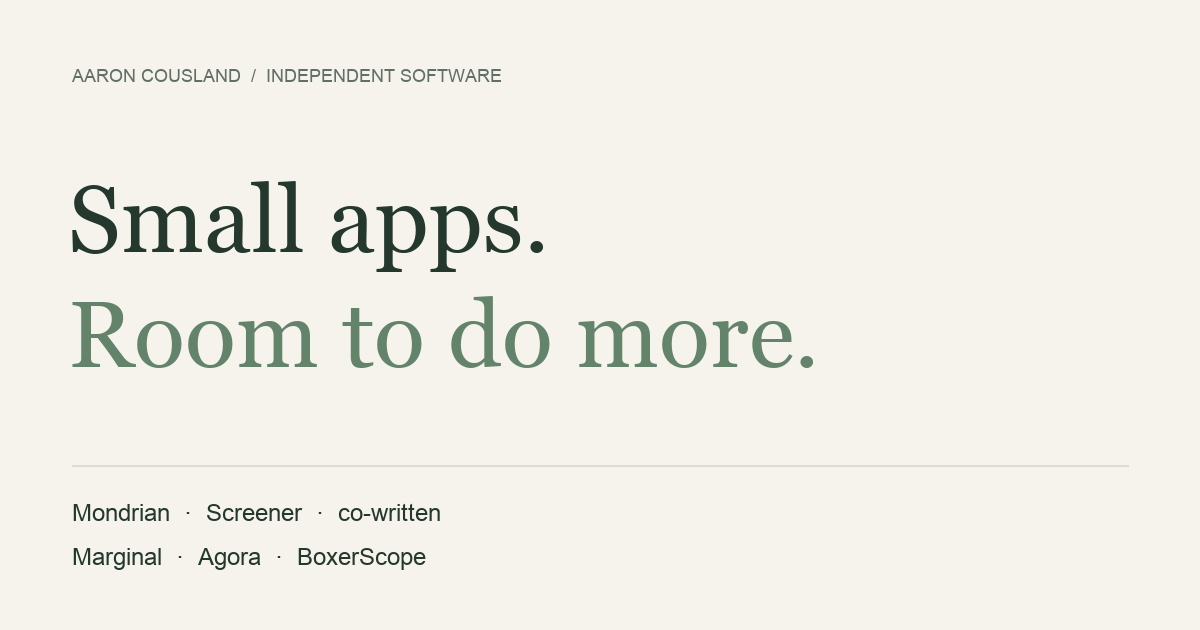
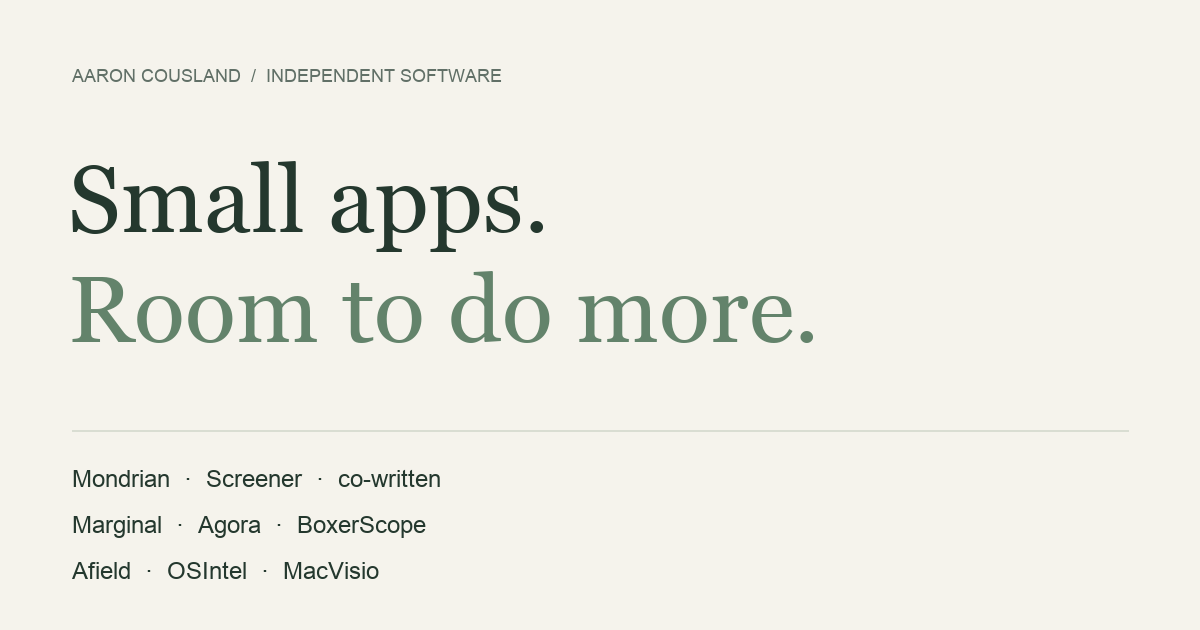
Add Afield, OSIntel, and MacVisio to the portfolio

diff --git a/index.html b/index.html
@@ -4,9 +4,9 @@
   <meta charset="utf-8">
   <meta name="viewport" content="width=device-width, initial-scale=1">
   <meta name="theme-color" content="#f5f3ec">
-  <meta name="description" content="Independent Mac apps by Aaron Cousland. Explore Mondrian, Screener, co-written, Marginal, Agora, and BoxerScope.">
+  <meta name="description" content="Independent software by Aaron Cousland. Explore Mondrian, Screener, co-written, Marginal, Agora, BoxerScope, Afield, OSIntel, and MacVisio.">
   <meta property="og:title" content="Aaron Cousland — Independent software">
-  <meta property="og:description" content="Tools for diagrams, desktops, writing, relationships, and the road ahead.">
+  <meta property="og:description" content="Tools for diagrams, research, desktops, writing, relationships, and the road ahead.">
   <meta property="og:type" content="website">
   <meta property="og:url" content="https://acousland.github.io/">
   <meta property="og:image" content="https://acousland.github.io/assets/social.png">
@@ -27,10 +27,10 @@
       <section class="intro" aria-labelledby="intro-title">
         <p class="eyebrow"><span class="dot" aria-hidden="true"></span>Independent software</p>
         <h1 id="intro-title">Small apps.<br><em>Room to do more.</em></h1>
-        <p class="intro-copy">Tools for diagrams, desktops, writing, relationships, and the road ahead. Made by Aaron Cousland.</p>
+        <p class="intro-copy">Tools for diagrams, research, desktops, writing, relationships, and the road ahead. Made by Aaron Cousland.</p>
       </section>
       <section id="apps" aria-label="Apps">
-        <div class="collection"><span>The collection</span><span>Six apps · Made for Mac</span></div>
+        <div class="collection"><span>The collection</span><span>Nine projects · Apps &amp; a game</span></div>
         <div class="grid">
           <article class="card mondrian">
             <a class="media" href="/mondrian/" aria-label="Explore Mondrian"><img class="screenshot" src="/assets/mondrian.webp" alt="Mondrian displaying a cloud platform diagram in its native Mac editor." width="1440" height="960" fetchpriority="high"></a>
@@ -76,6 +76,30 @@
             <a class="media" href="/boxerscope/" aria-label="Explore BoxerScope"><img class="brand-art" src="/assets/boxerscope-icon.webp" alt="BoxerScope app icon with a boxer engine and blue diagnostic pulse." width="512" height="512" loading="lazy"></a>
             <div class="card-body"><div class="card-heading"><h2><a href="/boxerscope/">BoxerScope</a></h2><span class="tag">Motorcycle diagnostics</span></div>
               <p class="description">Explore your BMW boxer’s fault memories, live data, and diagnostic history with UniCarScan.</p><div class="card-footer"><a class="button" href="/boxerscope/">Explore BoxerScope <span aria-hidden="true">→</span></a><a class="source" href="https://github.com/acousland/BoxerScope-releases/releases/latest">Download for Mac ↗</a></div></div>
+          </article>
+          <article class="card afield">
+            <a class="media" href="/afield/" aria-label="Explore Afield"><img class="screenshot" src="/assets/afield.webp" alt="Afield gameplay from a motorcycle cockpit, looking along a track through a misty Mongolian valley." width="1280" height="800" loading="lazy"></a>
+            <div class="card-body">
+              <div class="card-heading"><h2><a href="/afield/">Afield</a></h2><span class="tag">Playable preview</span></div>
+              <p class="description">Explore rural Mongolia by motorcycle, on foot, and around a campfire in a game about listening and returning home.</p>
+              <div class="card-footer"><a class="button" href="/afield/">Explore Afield <span aria-hidden="true">→</span></a><a class="source" href="https://github.com/acousland/afield-releases/releases/latest">Download preview ↗</a></div>
+            </div>
+          </article>
+          <article class="card osintel">
+            <a class="media" href="/osintel/" aria-label="Explore OSIntel"><img class="brand-art" src="/assets/osintel-icon.webp" alt="OSIntel app artwork: a magnifying glass over a connected evidence graph." width="512" height="512" loading="lazy"></a>
+            <div class="card-body">
+              <div class="card-heading"><h2><a href="/osintel/">OSIntel</a></h2><span class="tag">Corporate research</span></div>
+              <p class="description">Research organisations, gather public documents and technology evidence, and turn findings into source-cited briefings.</p>
+              <div class="card-footer"><a class="button" href="/osintel/">Explore OSIntel <span aria-hidden="true">→</span></a><a class="source" href="https://github.com/acousland/OSINT/releases/latest">Download for Mac ↗</a></div>
+            </div>
+          </article>
+          <article class="card macvisio">
+            <a class="media" href="/macvisio/" aria-label="Explore MacVisio"><img class="screenshot" src="/assets/macvisio.webp" alt="MacVisio’s native editor showing a sample drawing with formula-driven shape geometry." width="1600" height="762" loading="lazy"></a>
+            <div class="card-body">
+              <div class="card-heading"><h2><a href="/macvisio/">MacVisio</a></h2><span class="tag">In development</span></div>
+              <p class="description">A native Mac diagram editor for Visio files, with shapes, connectors, pages, and stencils. Currently a working prototype.</p>
+              <div class="card-footer"><a class="button" href="/macvisio/">Explore MacVisio <span aria-hidden="true">→</span></a><span class="development"><span class="dot" aria-hidden="true"></span>In development</span></div>
+            </div>
           </article>
         </div>
       </section>

diff --git a/afield/index.html b/afield/index.html
@@ -1,0 +1,35 @@
+<!doctype html>
+<html lang="en">
+<head>
+  <meta charset="utf-8">
+  <meta name="viewport" content="width=device-width, initial-scale=1">
+  <meta name="theme-color" content="#f5f3ec">
+  <meta name="description" content="Explore rural Mongolia by motorcycle, on foot, and around a campfire in a game about listening and returning home.">
+  <meta property="og:title" content="Afield — Aaron Cousland">
+  <meta property="og:description" content="Explore rural Mongolia by motorcycle, on foot, and around a campfire in a game about listening and returning home.">
+  <meta property="og:type" content="website">
+  <meta property="og:url" content="https://acousland.github.io/afield/">
+  <meta property="og:image" content="https://acousland.github.io/assets/social.png">
+  <meta name="twitter:card" content="summary_large_image">
+  <link rel="canonical" href="https://acousland.github.io/afield/">
+  <link rel="icon" type="image/svg+xml" href="/assets/favicon.svg">
+  <link rel="stylesheet" href="/assets/site.css">
+  <title>Afield — Aaron Cousland</title>
+</head>
+<body class="detail-page">
+  <a class="skip-link" href="#about">Skip to project details</a>
+  <div class="wrap">
+    <header><a class="identity" href="/" aria-label="Aaron Cousland home"><span class="mark" aria-hidden="true">a.</span>Aaron Cousland</a><nav class="header-nav" aria-label="Site"><a class="profile" href="/#apps">All apps</a><a class="profile github-link" href="https://github.com/acousland">GitHub ↗</a></nav></header>
+    <main id="about">
+      <nav class="breadcrumb" aria-label="Breadcrumb"><a href="/#apps">The collection</a><span aria-hidden="true">/</span><span aria-current="page">Afield</span></nav>
+      <section class="detail-intro" aria-labelledby="app-title"><p class="eyebrow"><span class="dot" aria-hidden="true"></span>Exploration game</p><h1 id="app-title">Afield</h1><p class="detail-tagline">A little further from the everyday.</p><p class="detail-copy">Afield is a motorcycle journey through rural Mongolia. Ride quiet tracks, walk through open landscapes, and set up camp as the light changes. Its developing story follows a return to a family radio station with a field recorder.</p><div class="detail-actions"><a class="button" href="https://github.com/acousland/afield-releases/releases/latest">Download preview <span aria-hidden="true">↗</span></a><a class="source" href="https://github.com/acousland/afield-releases">Release notes ↗</a></div></section>
+      <dl class="facts"><div><dt>Platform</dt><dd>macOS 12+ · Apple silicon</dd></div><div><dt>State</dt><dd>Playable preview</dd></div><div><dt>Controls</dt><dd>Keyboard, mouse &amp; controller</dd></div></dl>
+      <figure><div class="detail-visual afield"><img src="/assets/afield.webp" alt="Afield gameplay from a motorcycle cockpit, looking along a track through a misty Mongolian valley." width="1280" height="800" fetchpriority="high"></div><figcaption>A development screenshot from the original valley, with the revised motorcycle cockpit.</figcaption></figure>
+      <section class="detail-section" aria-labelledby="features-title"><h2 id="features-title">What you can do</h2><div class="features"><div class="feature"><span class="feature-number" aria-hidden="true">01</span><h3>Follow the valley</h3><p>Explore an original valley and a separate Kharkhorin / Orkhon Valley map, with tracks, river crossings, and changing daylight.</p></div><div class="feature"><span class="feature-number" aria-hidden="true">02</span><h3>Travel at your own pace</h3><p>Ride a classic motorcycle, walk independently, park, push, and recover the bike. Choose a first-person cockpit or chase camera.</p></div><div class="feature"><span class="feature-number" aria-hidden="true">03</span><h3>Make a place to pause</h3><p>Carry and place a tent, chair, and fire, sleep until morning, and save your outing. Story interactions are still in development.</p></div></div></section>
+      <section class="detail-section usage" aria-label="Getting started and project information"><div><h2>Getting started</h2><ol class="steps"><li>Download the Apple silicon Mac disk image and drag Afield into Applications.</li><li>Start an outing, choose a landscape, and use the controls guide to explore on foot or mount the motorcycle.</li><li>Use the pause menu for settings and saved outings. Check for new versions through Afield → Check for Updates…</li></ol></div><div class="detail-text"><h2>A journey still taking shape</h2><p>The public build is a playable development preview. Exploration, riding, camping, and saved outings are available; the full narrative and story interactions remain in development.</p><p>Mac releases are signed and notarised and include automatic updates. The game’s source development stays private.</p></div></section>
+      <section class="detail-section" aria-labelledby="more-title"><h2 id="more-title">More from the collection</h2><nav class="more-apps" aria-label="Other projects"><a href="/mondrian/">Mondrian →</a><a href="/screener/">Screener →</a><a href="/co-written/">co-written →</a><a href="/marginal/">Marginal →</a><a href="/agora/">Agora →</a><a href="/boxerscope/">BoxerScope →</a><a href="/osintel/">OSIntel →</a><a href="/macvisio/">MacVisio →</a></nav></section>
+    </main>
+    <footer><span>Made with care by Aaron Cousland.</span><a href="/#apps">Back to all apps ↑</a></footer>
+  </div>
+</body>
+</html>

diff --git a/osintel/index.html b/osintel/index.html
@@ -1,0 +1,35 @@
+<!doctype html>
+<html lang="en">
+<head>
+  <meta charset="utf-8">
+  <meta name="viewport" content="width=device-width, initial-scale=1">
+  <meta name="theme-color" content="#f5f3ec">
+  <meta name="description" content="Research organisations, gather public documents and technology evidence, and turn findings into source-cited briefings.">
+  <meta property="og:title" content="OSIntel — Aaron Cousland">
+  <meta property="og:description" content="Research organisations, gather public documents and technology evidence, and turn findings into source-cited briefings.">
+  <meta property="og:type" content="website">
+  <meta property="og:url" content="https://acousland.github.io/osintel/">
+  <meta property="og:image" content="https://acousland.github.io/assets/social.png">
+  <meta name="twitter:card" content="summary_large_image">
+  <link rel="canonical" href="https://acousland.github.io/osintel/">
+  <link rel="icon" type="image/svg+xml" href="/assets/favicon.svg">
+  <link rel="stylesheet" href="/assets/site.css">
+  <title>OSIntel — Aaron Cousland</title>
+</head>
+<body class="detail-page">
+  <a class="skip-link" href="#about">Skip to project details</a>
+  <div class="wrap">
+    <header><a class="identity" href="/" aria-label="Aaron Cousland home"><span class="mark" aria-hidden="true">a.</span>Aaron Cousland</a><nav class="header-nav" aria-label="Site"><a class="profile" href="/#apps">All apps</a><a class="profile github-link" href="https://github.com/acousland">GitHub ↗</a></nav></header>
+    <main id="about">
+      <nav class="breadcrumb" aria-label="Breadcrumb"><a href="/#apps">The collection</a><span aria-hidden="true">/</span><span aria-current="page">OSIntel</span></nav>
+      <section class="detail-intro" aria-labelledby="app-title"><p class="eyebrow"><span class="dot" aria-hidden="true"></span>Corporate research</p><h1 id="app-title">OSIntel</h1><p class="detail-tagline">Follow the evidence.</p><p class="detail-copy">OSIntel is a native Mac app for corporate intelligence and technology due diligence. Keep research about an organisation in one workspace, with public documents, observed technology, source links, and a record of how the evidence was gathered.</p><div class="detail-actions"><a class="button" href="https://github.com/acousland/OSINT/releases/latest">Download for Mac <span aria-hidden="true">↗</span></a><a class="source" href="https://github.com/acousland/OSINT">Project and setup guide ↗</a></div></section>
+      <dl class="facts"><div><dt>Platform</dt><dd>Native macOS app</dd></div><div><dt>Focus</dt><dd>Corporate intelligence</dd></div><div><dt>Optional AI</dt><dd>Bring your own API key</dd></div></dl>
+      <figure><div class="detail-visual osintel"><img src="/assets/osintel-icon.webp" alt="OSIntel app artwork: a magnifying glass over a connected evidence graph." width="512" height="512" fetchpriority="high"></div><figcaption>OSIntel app artwork.</figcaption></figure>
+      <section class="detail-section" aria-labelledby="features-title"><h2 id="features-title">What you can do</h2><div class="features"><div class="feature"><span class="feature-number" aria-hidden="true">01</span><h3>Build a research case</h3><p>Gather public company information, documents, and technology evidence around the organisation you are investigating.</p></div><div class="feature"><span class="feature-number" aria-hidden="true">02</span><h3>Keep the source in view</h3><p>Explore findings, relationships, and a timeline with provenance, so a briefing stays connected to its supporting material.</p></div><div class="feature"><span class="feature-number" aria-hidden="true">03</span><h3>Turn research into a briefing</h3><p>Use optional AI-assisted synthesis and questions over collected evidence, then export findings for further work.</p></div></div></section>
+      <section class="detail-section usage" aria-label="Getting started and project information"><div><h2>Getting started</h2><ol class="steps"><li>Download the public Mac installer from Releases and move OSIntel into Applications.</li><li>Follow the setup guide for any lookup credentials and your own AI API key.</li><li>Create an investigation, gather evidence, and review the linked sources before preparing a briefing.</li></ol></div><div class="detail-text"><h2>An evolving research workspace</h2><p>The newer local workspace focuses on document-led research. The current public download is an earlier release and may not include every feature under development.</p><p>Credentials are stored in Keychain. AI-assisted research can share selected investigation material with the provider; review the app’s sharing prompt. Active reconnaissance requires authorisation for the target.</p></div></section>
+      <section class="detail-section" aria-labelledby="more-title"><h2 id="more-title">More from the collection</h2><nav class="more-apps" aria-label="Other projects"><a href="/mondrian/">Mondrian →</a><a href="/screener/">Screener →</a><a href="/co-written/">co-written →</a><a href="/marginal/">Marginal →</a><a href="/agora/">Agora →</a><a href="/boxerscope/">BoxerScope →</a><a href="/afield/">Afield →</a><a href="/macvisio/">MacVisio →</a></nav></section>
+    </main>
+    <footer><span>Made with care by Aaron Cousland.</span><a href="/#apps">Back to all apps ↑</a></footer>
+  </div>
+</body>
+</html>

diff --git a/macvisio/index.html b/macvisio/index.html
@@ -1,0 +1,35 @@
+<!doctype html>
+<html lang="en">
+<head>
+  <meta charset="utf-8">
+  <meta name="viewport" content="width=device-width, initial-scale=1">
+  <meta name="theme-color" content="#f5f3ec">
+  <meta name="description" content="A native Mac diagram editor for Visio files, with shapes, connectors, pages, and stencils. Currently a working prototype.">
+  <meta property="og:title" content="MacVisio — Aaron Cousland">
+  <meta property="og:description" content="A native Mac diagram editor for Visio files, with shapes, connectors, pages, and stencils. Currently a working prototype.">
+  <meta property="og:type" content="website">
+  <meta property="og:url" content="https://acousland.github.io/macvisio/">
+  <meta property="og:image" content="https://acousland.github.io/assets/social.png">
+  <meta name="twitter:card" content="summary_large_image">
+  <link rel="canonical" href="https://acousland.github.io/macvisio/">
+  <link rel="icon" type="image/svg+xml" href="/assets/favicon.svg">
+  <link rel="stylesheet" href="/assets/site.css">
+  <title>MacVisio — Aaron Cousland</title>
+</head>
+<body class="detail-page">
+  <a class="skip-link" href="#about">Skip to project details</a>
+  <div class="wrap">
+    <header><a class="identity" href="/" aria-label="Aaron Cousland home"><span class="mark" aria-hidden="true">a.</span>Aaron Cousland</a><nav class="header-nav" aria-label="Site"><a class="profile" href="/#apps">All apps</a><a class="profile github-link" href="https://github.com/acousland">GitHub ↗</a></nav></header>
+    <main id="about">
+      <nav class="breadcrumb" aria-label="Breadcrumb"><a href="/#apps">The collection</a><span aria-hidden="true">/</span><span aria-current="page">MacVisio</span></nav>
+      <section class="detail-intro" aria-labelledby="app-title"><p class="eyebrow"><span class="dot" aria-hidden="true"></span>Diagram editor</p><h1 id="app-title">MacVisio</h1><p class="detail-tagline">Familiar diagrams. A native Mac workspace.</p><p class="detail-copy">MacVisio is a Swift and AppKit diagram editor being developed around Visio document formats. The local prototype supports native editing and a growing set of file features, while full compatibility remains unfinished.</p><div class="detail-actions"><span class="availability"><span class="dot" aria-hidden="true"></span>In development. No public download yet.</span></div></section>
+      <dl class="facts"><div><dt>State</dt><dd>In development · local prototype</dd></div><div><dt>Current build</dt><dd>Apple silicon · macOS 27</dd></div><div><dt>Public download</dt><dd>Not available yet</dd></div></dl>
+      <figure><div class="detail-visual macvisio"><img src="/assets/macvisio.webp" alt="MacVisio’s native editor showing a sample drawing with formula-driven shape geometry." width="1600" height="762" fetchpriority="high"></div><figcaption>A sample formula-driven drawing in the local MacVisio editor.</figcaption></figure>
+      <section class="detail-section" aria-labelledby="features-title"><h2 id="features-title">What you can do</h2><div class="features"><div class="feature"><span class="feature-number" aria-hidden="true">01</span><h3>Edit with native controls</h3><p>Create and arrange shapes, connect them, edit text, and work with grouping, undo, pages, layers, and drawing scales.</p></div><div class="feature"><span class="feature-number" aria-hidden="true">02</span><h3>Work with Visio documents</h3><p>Read and write supported VSDX content, load stencils and templates, and preserve unedited package data. Binary VSD support is experimental.</p></div><div class="feature"><span class="feature-number" aria-hidden="true">03</span><h3>Take the drawing with you</h3><p>Export drawings as PNG, SVG, or PDF, including multi-page PDF, while compatibility work continues.</p></div></div></section>
+      <section class="detail-section usage" aria-label="Getting started and project information"><div><h2>Getting started</h2><ol class="steps"><li>MacVisio is currently a local development build, with no public installer.</li><li>The packaged prototype requires Apple silicon and macOS 27.</li><li>Watch this page for a public release as compatibility and distribution work progress.</li></ol></div><div class="detail-text"><h2>File compatibility</h2><p>MacVisio is not yet a complete Visio replacement. Full ShapeSheet behaviour, advanced rendering, specialist solutions, and Office integrations remain unfinished.</p><p>Binary VSD output is experimental and has not been validated in Microsoft Visio. Expect compatibility limits with advanced drawings while interoperability testing continues.</p></div></section>
+      <section class="detail-section" aria-labelledby="more-title"><h2 id="more-title">More from the collection</h2><nav class="more-apps" aria-label="Other projects"><a href="/mondrian/">Mondrian →</a><a href="/screener/">Screener →</a><a href="/co-written/">co-written →</a><a href="/marginal/">Marginal →</a><a href="/agora/">Agora →</a><a href="/boxerscope/">BoxerScope →</a><a href="/afield/">Afield →</a><a href="/osintel/">OSIntel →</a></nav></section>
+    </main>
+    <footer><span>Made with care by Aaron Cousland.</span><a href="/#apps">Back to all apps ↑</a></footer>
+  </div>
+</body>
+</html>

diff --git a/co-written/index.html b/co-written/index.html
@@ -27,7 +27,7 @@
       <figure><div class="detail-visual cowritten"><img src="/assets/co-written.webp" alt="Co-written analysing readability, voice, and sentence rhythm in an example passage." width="1440" height="1140" fetchpriority="high"></div><figcaption>A labelled example passage in the full analysis window.</figcaption></figure>
       <section class="detail-section" aria-labelledby="features-title"><h2 id="features-title">What you can do</h2><div class="features"><div class="feature"><span class="feature-number" aria-hidden="true">01</span><h3>Understand the voice</h3><p>Explore point of view, possible passive constructions, formality, tone, and reading ease, with supporting evidence.</p></div><div class="feature"><span class="feature-number" aria-hidden="true">02</span><h3>Find the rhythm</h3><p>Compare sentence lengths, repeated vocabulary, hedging, and wordy phrasing. Use the cues to decide what to revise.</p></div><div class="feature"><span class="feature-number" aria-hidden="true">03</span><h3>Go a little deeper</h3><p>Optional AI feedback adds context and practical edits. Style-pattern reviews offer explanations rather than an authorship verdict.</p></div></div><figure class="extra-shot"><div class="detail-visual cowritten"><img src="/assets/co-written-cues.webp" alt="Co-written showing writing cues with quoted evidence." width="1516" height="1200" loading="lazy"></div><figcaption>Writing cues connect suggestions to the words in your passage.</figcaption></figure></section>
       <section class="detail-section usage" aria-label="Getting started and app information"><div><h2>Getting started</h2><ol class="steps"><li>Download the disk image and drag co-written into Applications. It starts in the menu bar.</li><li>Grant Accessibility in Settings, select some text, and press ⇧⌘L. You can also paste a passage.</li><li>Read the dropdown, or open the full app to explore the evidence. Add your own API key if you want AI feedback.</li></ol></div><div class="detail-text"><h2>You choose what to share</h2><p>Local analysis works on your Mac without saving a writing history. The menu-bar shortcut analyses the passage you request; the full window can follow settled selections while it is open.</p><p>AI analysis shares the requested passage with your chosen destination and uses your own key. Local style cues are mainly for English; readability and style scores are estimates.</p></div></section>
-      <section class="detail-section" aria-labelledby="more-title"><h2 id="more-title">More from the collection</h2><nav class="more-apps" aria-label="Other apps"><a href="/mondrian/">Mondrian →</a><a href="/screener/">Screener →</a><a href="/marginal/">Marginal →</a><a href="/agora/">Agora →</a><a href="/boxerscope/">BoxerScope →</a></nav></section>
+      <section class="detail-section" aria-labelledby="more-title"><h2 id="more-title">More from the collection</h2><nav class="more-apps" aria-label="Other projects"><a href="/mondrian/">Mondrian →</a><a href="/screener/">Screener →</a><a href="/marginal/">Marginal →</a><a href="/agora/">Agora →</a><a href="/boxerscope/">BoxerScope →</a><a href="/afield/">Afield →</a><a href="/osintel/">OSIntel →</a><a href="/macvisio/">MacVisio →</a></nav></section>
     </main>
     <footer><span>Made with care by Aaron Cousland.</span><a href="/#apps">Back to all apps ↑</a></footer>
   </div>

diff --git a/boxerscope/index.html b/boxerscope/index.html
@@ -27,7 +27,7 @@
       <figure><div class="detail-visual boxerscope"><img src="/assets/boxerscope-icon.webp" alt="BoxerScope app icon with a boxer engine and blue diagnostic pulse." width="512" height="512" fetchpriority="high"></div><figcaption>BoxerScope app artwork.</figcaption></figure>
       <section class="detail-section" aria-labelledby="features-title"><h2 id="features-title">What you can do</h2><div class="features"><div class="feature"><span class="feature-number" aria-hidden="true">01</span><h3>A garage with a memory</h3><p>Recognise a bike from its ECU-supplied identifier and keep profiles, scan results, and diagnostic history together.</p></div><div class="feature"><span class="feature-number" aria-hidden="true">02</span><h3>See what the bike reports</h3><p>Discover supported systems, read available fault memories, and inspect decoded live data alongside retained raw responses.</p></div><div class="feature"><span class="feature-number" aria-hidden="true">03</span><h3>Know the limits</h3><p>Service and output-test controls show their prerequisites and remain locked until individually verified. Automatic scans are read-only.</p></div></div></section>
       <section class="detail-section usage" aria-label="Getting started and app information"><div><h2>Getting started</h2><ol class="steps"><li>Download the Mac disk image and drag BoxerScope into Applications. The installer is universal, Developer ID signed, and notarised by Apple.</li><li>Pair the UniCarScan UCSI-2100 in macOS System Settings. Connect with the bike’s ignition on and check the recognised identity.</li><li>Run a scan, inspect supported live data, and export a diagnostic report for your records.</li></ol></div><div class="detail-text"><h2>Built around the real bike</h2><p>Profiles and diagnostic history stay local. Readings come from the connected adapter and vehicle; the app does not invent vehicle data.</p><p>Coverage depends on the exact controller and validated response. Confirm the recognised identifier against the bike, and confirm official service-campaign status with BMW or an authorised repairer.</p><p>The public download is for macOS 14 or later on Intel and Apple silicon. iPhone and iPad versions are not currently distributed through these releases.</p></div></section>
-      <section class="detail-section" aria-labelledby="more-title"><h2 id="more-title">More from the collection</h2><nav class="more-apps" aria-label="Other apps"><a href="/mondrian/">Mondrian →</a><a href="/screener/">Screener →</a><a href="/co-written/">co-written →</a><a href="/marginal/">Marginal →</a><a href="/agora/">Agora →</a></nav></section>
+      <section class="detail-section" aria-labelledby="more-title"><h2 id="more-title">More from the collection</h2><nav class="more-apps" aria-label="Other projects"><a href="/mondrian/">Mondrian →</a><a href="/screener/">Screener →</a><a href="/co-written/">co-written →</a><a href="/marginal/">Marginal →</a><a href="/agora/">Agora →</a><a href="/afield/">Afield →</a><a href="/osintel/">OSIntel →</a><a href="/macvisio/">MacVisio →</a></nav></section>
     </main>
     <footer><span>Made with care by Aaron Cousland.</span><a href="/#apps">Back to all apps ↑</a></footer>
   </div>

diff --git a/marginal/index.html b/marginal/index.html
@@ -27,7 +27,7 @@
       <figure><div class="detail-visual marginal"><img src="/assets/marginal.webp" alt="Marginal editing a rendered Markdown document with headings, a list, and a code block." width="1339" height="1140" fetchpriority="high"></div><figcaption>A sample Markdown document in the rendered editor.</figcaption></figure>
       <section class="detail-section" aria-labelledby="features-title"><h2 id="features-title">What you can do</h2><div class="features"><div class="feature"><span class="feature-number" aria-hidden="true">01</span><h3>Edit the page you see</h3><p>Write directly in rendered text. Use headings, lists, links, quotes, and code blocks, or switch to source when you need it.</p></div><div class="feature"><span class="feature-number" aria-hidden="true">02</span><h3>Tables without the fuss</h3><p>Insert tables and add, remove, or align rows and columns using native controls. Tab moves between cells.</p></div><div class="feature"><span class="feature-number" aria-hidden="true">03</span><h3>Keep your files simple</h3><p>Save ordinary UTF-8 Markdown, use native undo and find, and adjust zoom or word wrap to suit your workspace.</p></div></div><figure class="extra-shot"><div class="detail-visual marginal"><img src="/assets/marginal-tables.webp" alt="Marginal showing native Markdown table editing." width="1600" height="1176" loading="lazy"></div><figcaption>Table controls keep structure editing close to the document.</figcaption></figure></section>
       <section class="detail-section usage" aria-label="Getting started and app information"><div><h2>Getting started</h2><ol class="steps"><li>Download the ZIP, unzip it, and drag Marginal into Applications.</li><li>Open a Markdown file or start a new document. Click the rendered text and begin typing.</li><li>Save with ⌘S. Use ⇧⌘M to switch between the rendered editor and Markdown source.</li></ol></div><div class="detail-text"><h2>Your words remain local</h2><p>Document contents and file paths stay on your Mac. There is no account or cloud workspace; update checks fetch releases from GitHub.</p><p>Advanced or unsupported Markdown can be edited in source view. Remote images display as placeholders while their URLs are preserved.</p></div></section>
-      <section class="detail-section" aria-labelledby="more-title"><h2 id="more-title">More from the collection</h2><nav class="more-apps" aria-label="Other apps"><a href="/mondrian/">Mondrian →</a><a href="/screener/">Screener →</a><a href="/co-written/">co-written →</a><a href="/agora/">Agora →</a><a href="/boxerscope/">BoxerScope →</a></nav></section>
+      <section class="detail-section" aria-labelledby="more-title"><h2 id="more-title">More from the collection</h2><nav class="more-apps" aria-label="Other projects"><a href="/mondrian/">Mondrian →</a><a href="/screener/">Screener →</a><a href="/co-written/">co-written →</a><a href="/agora/">Agora →</a><a href="/boxerscope/">BoxerScope →</a><a href="/afield/">Afield →</a><a href="/osintel/">OSIntel →</a><a href="/macvisio/">MacVisio →</a></nav></section>
     </main>
     <footer><span>Made with care by Aaron Cousland.</span><a href="/#apps">Back to all apps ↑</a></footer>
   </div>

diff --git a/agora/index.html b/agora/index.html
@@ -27,7 +27,7 @@
       <figure><div class="detail-visual agora"><img src="/assets/agora.webp" alt="Agora’s overview showing sample people, commitments due today, overdue promises, and recent conversations." width="1600" height="1030" fetchpriority="high"></div><figcaption>Agora’s overview with illustrative sample people and commitments.</figcaption></figure>
       <section class="detail-section" aria-labelledby="features-title"><h2 id="features-title">What you can do</h2><div class="features"><div class="feature"><span class="feature-number" aria-hidden="true">01</span><h3>Remember the person</h3><p>Keep contact details, tags, and personal notes beside a timeline of emails, meetings, calls, and conversations.</p></div><div class="feature"><span class="feature-number" aria-hidden="true">02</span><h3>Keep track of both sides</h3><p>Record promises you made and promises made to you, with deadlines, priorities, and the conversation they came from.</p></div><div class="feature"><span class="feature-number" aria-hidden="true">03</span><h3>Bring the context together</h3><p>See overdue and upcoming commitments in Overview. Save selected Outlook emails or connect an AI client through the local helper.</p></div></div></section>
       <section class="detail-section usage" aria-label="Getting started and app information"><div><h2>Getting started</h2><ol class="steps"><li>Download the disk image and drag Agora into Applications. The current release is Developer ID signed but not notarised.</li><li>Add a person, log a conversation, and record a commitment with its deadline and direction.</li><li>Open Connections for Outlook setup, AI-client integration, JSON import/export, and library backups.</li></ol></div><div class="detail-text"><h2>A library on your Mac</h2><p>People, conversation notes, and saved emails are stored in a local library. Agora has no cloud CRM service or analytics.</p><p>Outlook captures only emails you explicitly save. The add-in needs a supported mailbox and permission to install custom add-ins; live mailbox capture has not yet been verified. An AI client may share accessed records according to its own settings.</p></div></section>
-      <section class="detail-section" aria-labelledby="more-title"><h2 id="more-title">More from the collection</h2><nav class="more-apps" aria-label="Other apps"><a href="/mondrian/">Mondrian →</a><a href="/screener/">Screener →</a><a href="/co-written/">co-written →</a><a href="/marginal/">Marginal →</a><a href="/boxerscope/">BoxerScope →</a></nav></section>
+      <section class="detail-section" aria-labelledby="more-title"><h2 id="more-title">More from the collection</h2><nav class="more-apps" aria-label="Other projects"><a href="/mondrian/">Mondrian →</a><a href="/screener/">Screener →</a><a href="/co-written/">co-written →</a><a href="/marginal/">Marginal →</a><a href="/boxerscope/">BoxerScope →</a><a href="/afield/">Afield →</a><a href="/osintel/">OSIntel →</a><a href="/macvisio/">MacVisio →</a></nav></section>
     </main>
     <footer><span>Made with care by Aaron Cousland.</span><a href="/#apps">Back to all apps ↑</a></footer>
   </div>

diff --git a/screener/index.html b/screener/index.html
@@ -27,7 +27,7 @@
       <figure><div class="detail-visual screener"><div class="devices" role="img" aria-label="Illustration of Screener connecting a desktop and laptop."><div class="monitor"><div class="display"><img class="app-icon" src="/assets/screener-icon.webp" alt="" width="66" height="66"></div></div><div class="stand"></div><div class="laptop"><div class="display"><img class="app-icon" src="/assets/screener-icon.webp" alt="" width="37" height="37"></div></div></div></div><figcaption>App illustration showing the Server and Client pairing.</figcaption></figure>
       <section class="detail-section" aria-labelledby="features-title"><h2 id="features-title">What you can do</h2><div class="features"><div class="feature"><span class="feature-number" aria-hidden="true">01</span><h3>A screen for a headless Mac</h3><p>Create a virtual display and choose HiDPI scaling, with 16:9 and 16:10 workspace options.</p></div><div class="feature"><span class="feature-number" aria-hidden="true">02</span><h3>A desktop you can control</h3><p>Stream up to 4K, forward keyboard and mouse input, and use optional clipboard transfers and system audio.</p></div><div class="feature"><span class="feature-number" aria-hidden="true">03</span><h3>Controls when you need them</h3><p>Change resolution and video settings in Session Controls, or use Transparent Mode for a full-screen remote desktop.</p></div></div></section>
       <section class="detail-section usage" aria-label="Getting started and app information"><div><h2>Getting started</h2><ol class="steps"><li>Download both preview archives. Put Server on the mini and Client on the MacBook.</li><li>Open Server and grant the macOS permissions needed for screen capture and remote input.</li><li>Copy the pairing invitation into Client, then choose Connect &amp; Start Screen.</li></ol></div><div class="detail-text"><h2>Made for a local network</h2><p>Screener uses an authenticated, encrypted connection between your Macs, with no cloud relay. Clipboard sharing is optional.</p><p>Current downloads are preview releases. A stable local network is recommended; Server runs in a logged-in Mac session.</p></div></section>
-      <section class="detail-section" aria-labelledby="more-title"><h2 id="more-title">More from the collection</h2><nav class="more-apps" aria-label="Other apps"><a href="/mondrian/">Mondrian →</a><a href="/co-written/">co-written →</a><a href="/marginal/">Marginal →</a><a href="/agora/">Agora →</a><a href="/boxerscope/">BoxerScope →</a></nav></section>
+      <section class="detail-section" aria-labelledby="more-title"><h2 id="more-title">More from the collection</h2><nav class="more-apps" aria-label="Other projects"><a href="/mondrian/">Mondrian →</a><a href="/co-written/">co-written →</a><a href="/marginal/">Marginal →</a><a href="/agora/">Agora →</a><a href="/boxerscope/">BoxerScope →</a><a href="/afield/">Afield →</a><a href="/osintel/">OSIntel →</a><a href="/macvisio/">MacVisio →</a></nav></section>
     </main>
     <footer><span>Made with care by Aaron Cousland.</span><a href="/#apps">Back to all apps ↑</a></footer>
   </div>

diff --git a/mondrian/index.html b/mondrian/index.html
@@ -27,7 +27,7 @@
       <figure><div class="detail-visual mondrian"><img src="/assets/mondrian.webp" alt="Mondrian displaying a cloud platform diagram in its native Mac editor." width="1440" height="960" fetchpriority="high"></div><figcaption>A sample cloud platform diagram in Mondrian’s native editor.</figcaption></figure>
       <section class="detail-section" aria-labelledby="features-title"><h2 id="features-title">What you can do</h2><div class="features"><div class="feature"><span class="feature-number" aria-hidden="true">01</span><h3>A library for your thinking</h3><p>Keep drawings in folders and separate libraries. Search by name, author, tags, and drawing details.</p></div><div class="feature"><span class="feature-number" aria-hidden="true">02</span><h3>Make the picture your own</h3><p>Work with shapes, connectors, custom stencils, layout controls, and saved versions. Inspect details and revisit the history of a drawing.</p></div><div class="feature"><span class="feature-number" aria-hidden="true">03</span><h3>From ideas to something shareable</h3><p>Let a connected AI client create or update drawings, then export the result as PNG, PDF, SVG, HTML, or JSON.</p></div></div></section>
       <section class="detail-section usage" aria-label="Getting started and app information"><div><h2>Getting started</h2><ol class="steps"><li>Download the disk image, open it, and drag Mondrian into Applications.</li><li>Create a drawing or import diagram JSON, then adjust its shapes, connectors, and layout.</li><li>Use Settings → AI Clients to connect a supported client, or work directly in the app.</li></ol></div><div class="detail-text"><h2>Your library stays with you</h2><p>Drawings, history, stencils, and attachments live in local libraries. The app works without an account or internet connection.</p><p>A connected AI client can read and change drawings through the local helper. Any sharing with a model provider follows that client’s settings.</p></div></section>
-      <section class="detail-section" aria-labelledby="more-title"><h2 id="more-title">More from the collection</h2><nav class="more-apps" aria-label="Other apps"><a href="/screener/">Screener →</a><a href="/co-written/">co-written →</a><a href="/marginal/">Marginal →</a><a href="/agora/">Agora →</a><a href="/boxerscope/">BoxerScope →</a></nav></section>
+      <section class="detail-section" aria-labelledby="more-title"><h2 id="more-title">More from the collection</h2><nav class="more-apps" aria-label="Other projects"><a href="/screener/">Screener →</a><a href="/co-written/">co-written →</a><a href="/marginal/">Marginal →</a><a href="/agora/">Agora →</a><a href="/boxerscope/">BoxerScope →</a><a href="/afield/">Afield →</a><a href="/osintel/">OSIntel →</a><a href="/macvisio/">MacVisio →</a></nav></section>
     </main>
     <footer><span>Made with care by Aaron Cousland.</span><a href="/#apps">Back to all apps ↑</a></footer>
   </div>

diff --git a/assets/site.css b/assets/site.css
@@ -63,6 +63,14 @@
     @media(prefers-reduced-motion:reduce) { html { scroll-behavior:auto; } .button { transition:none; } }
     .agora .media { background:#e8e6f0; }
     .boxerscope .media { background:#dde2e6; }
+    .afield .media, .detail-visual.afield { background:#e1e5db; }
+    .osintel .media, .detail-visual.osintel { background:#e0e9ed; }
+    .macvisio .media, .detail-visual.macvisio { background:#e7eaf1; }
+    .card.macvisio { grid-column:1 / -1; display:grid; grid-template-columns:1fr 1fr; }
+    .card.macvisio .media { height:100%; min-height:270px; border-bottom:0; border-right:1px solid var(--line); }
+    .card.macvisio .card-body { justify-content:center; padding:36px; }
+    .card.macvisio .card-footer { margin-top:0; }
+    .detail-visual.osintel img { width:240px; height:240px; }
     .brand-art { width:200px; height:200px; object-fit:contain; filter:drop-shadow(0 12px 16px #24313a22); }
     .card h2 a:hover { text-decoration:underline; text-underline-offset:5px; }
     .card > a.media:hover .screenshot { filter:drop-shadow(0 10px 14px #29332a30); }
@@ -113,6 +121,9 @@
     .more-apps a:hover { background:#e9ede3; }
     .detail-page footer { margin-top:0; border-top:0; }
     @media(max-width:700px) {
+      .card.macvisio { grid-column:auto; display:flex; }
+      .card.macvisio .media { height:275px; min-height:0; border-right:0; border-bottom:1px solid var(--line); }
+      .card.macvisio .card-body { padding:25px 27px 26px; }
       .header-nav { gap:14px; }
       .detail-intro { padding:32px 0 28px; }
       .detail-copy { font-size:15px; }

diff --git a/README.md b/README.md
@@ -8,8 +8,8 @@ A static HTML site hosted by GitHub Pages from the root of the `main` branch. No
 
 Edit `index.html` for the collection, or an app’s `index.html` inside its folder, then push to `main`. GitHub Pages publishes the update automatically. The shared stylesheet and screenshot assets live in `assets/`.
 
-The collection contains Mondrian, Screener, co-written, Marginal, Agora, and BoxerScope. Each card links to a dedicated detail page with features, requirements, getting-started instructions, and downloads. Mondrian and BoxerScope link to public release repositories while their source remains private. Screener links to the releases list because its current builds are prereleases.
+The collection contains Mondrian, Screener, co-written, Marginal, Agora, BoxerScope, Afield, OSIntel, and MacVisio. Each card links to a dedicated detail page with a description, features, requirements, and available downloads. Mondrian remains one entry covering the same project. Mondrian, BoxerScope, and Afield link to public release repositories while their source remains private. Screener and Afield are described as previews. MacVisio is a local prototype marked as in development, with no public installer. OSIntel’s public release predates the newer local research workspace.
 
-Mondrian, co-written, Marginal, and Agora use demo screenshots. Screener uses a labelled illustration with its app icon; BoxerScope uses its app artwork.
+Mondrian, co-written, Marginal, Agora, and MacVisio use example screenshots. Afield uses a development gameplay screenshot. Screener uses a labelled illustration with its app icon; BoxerScope and OSIntel use their app artwork.
 
 To preview locally, run `python3 -m http.server 8000` in this directory and open http://localhost:8000.
